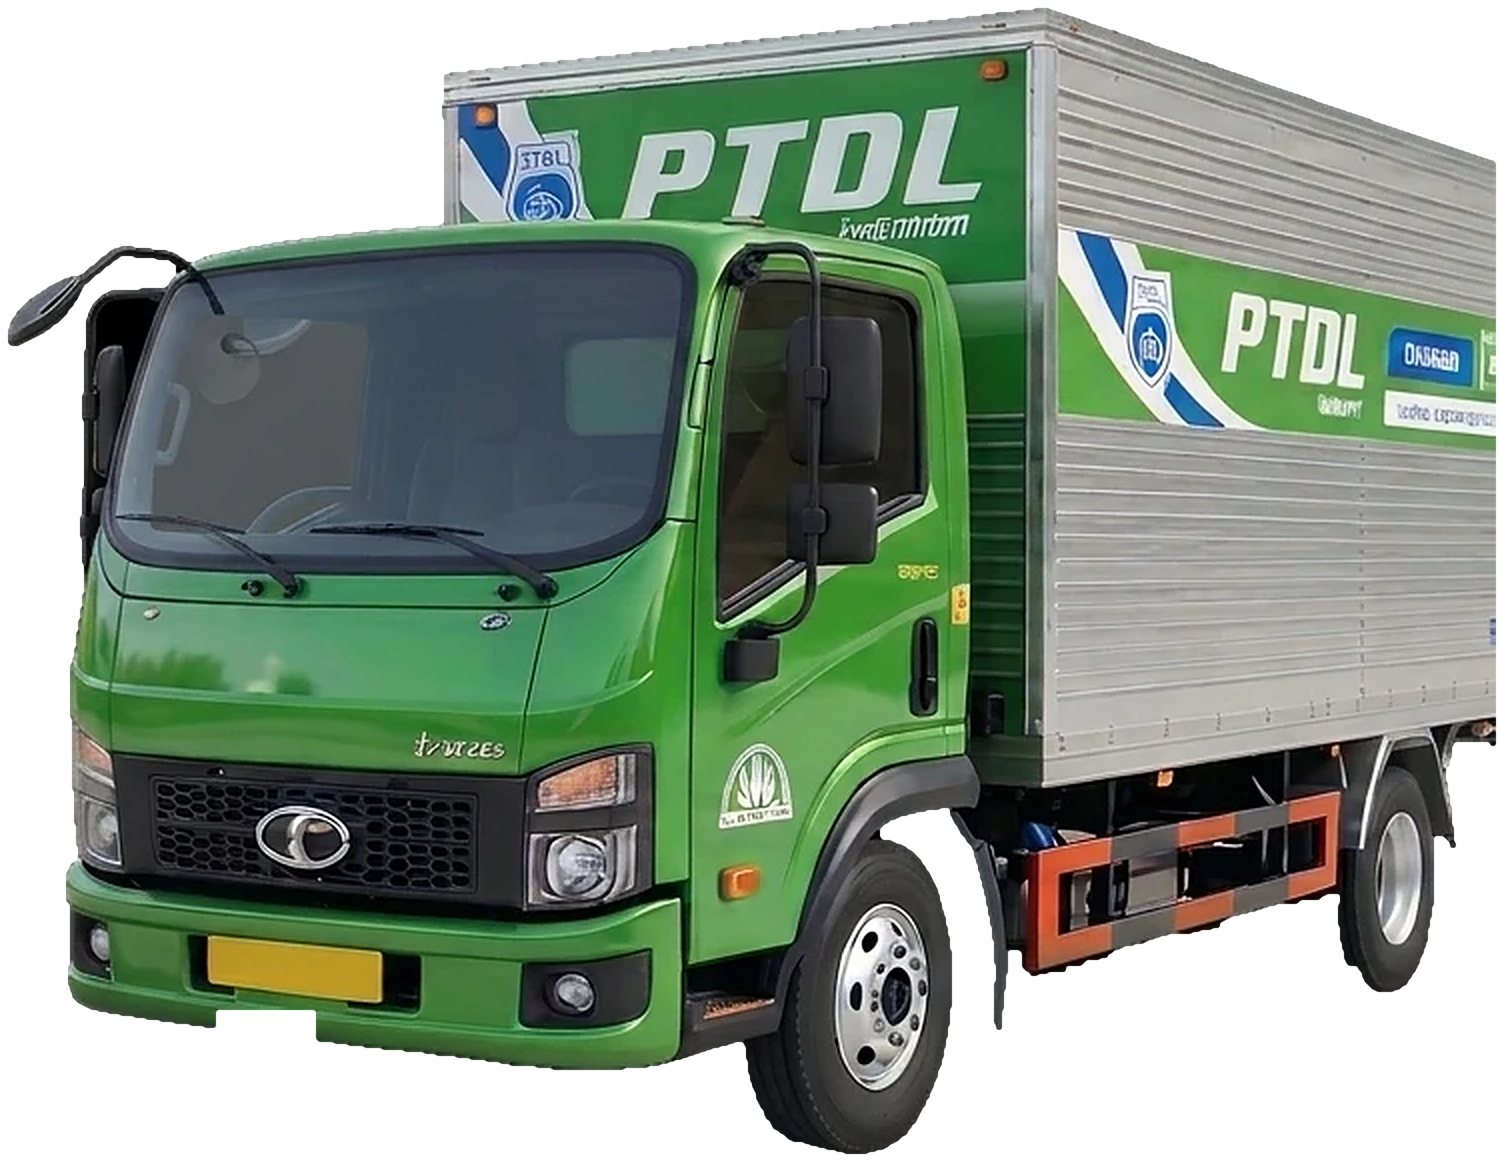
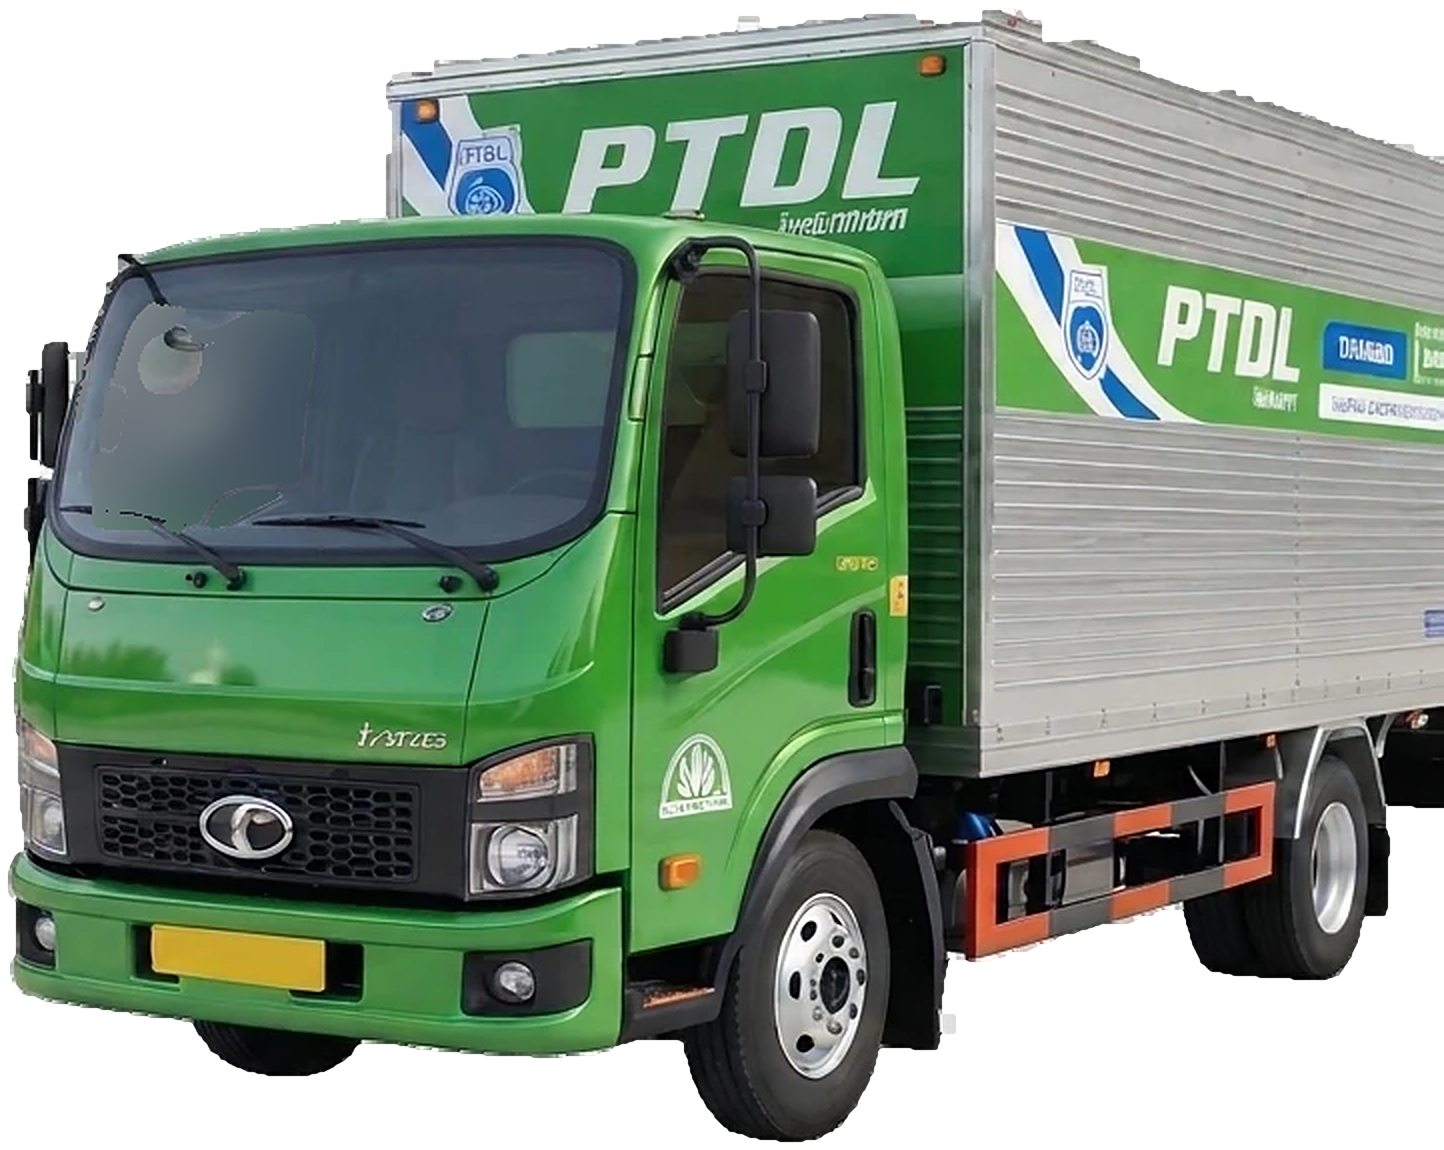
Hero truck from the new AI image: remove the fake checkerboard background and repair the windshield

diff --git a/preview/index.html b/preview/index.html
@@ -66,7 +66,7 @@
       <div class="call-box"><span class="ico"><svg class="svg" aria-hidden="true"><use href="/assets/images/icons.svg#i-phone"/></svg></span><span><small>Liên hệ</small><a href="tel:02855555565">0285 5555 565</a></span></div>
     </div>
   </div>
-  <img class="hero-truck" data-anim="right" data-delay="300" src="/assets/images/hero-xe-ptdl.png" alt="Xe tải thùng kín PTDL màu xanh" width="1500" height="1162">
+  <img class="hero-truck" data-anim="right" data-delay="300" src="/assets/images/hero-xe-ptdl.png" alt="Xe tải thùng kín PTDL màu xanh" width="1444" height="1150">
 </section>
 
 <section class="section" id="dich-vu-chinh">

diff --git a/site/index.html b/site/index.html
@@ -65,7 +65,7 @@
       <div class="call-box"><span class="ico"><svg class="svg" aria-hidden="true"><use href="assets/images/icons.svg#i-phone"/></svg></span><span><small>Liên hệ</small><a href="tel:02855555565">0285 5555 565</a></span></div>
     </div>
   </div>
-  <img class="hero-truck" data-anim="right" data-delay="300" src="assets/images/hero-xe-ptdl.png" alt="Xe tải thùng kín PTDL màu xanh" width="1500" height="1162">
+  <img class="hero-truck" data-anim="right" data-delay="300" src="assets/images/hero-xe-ptdl.png" alt="Xe tải thùng kín PTDL màu xanh" width="1444" height="1150">
 </section>
 
 <section class="section" id="dich-vu-chinh">
